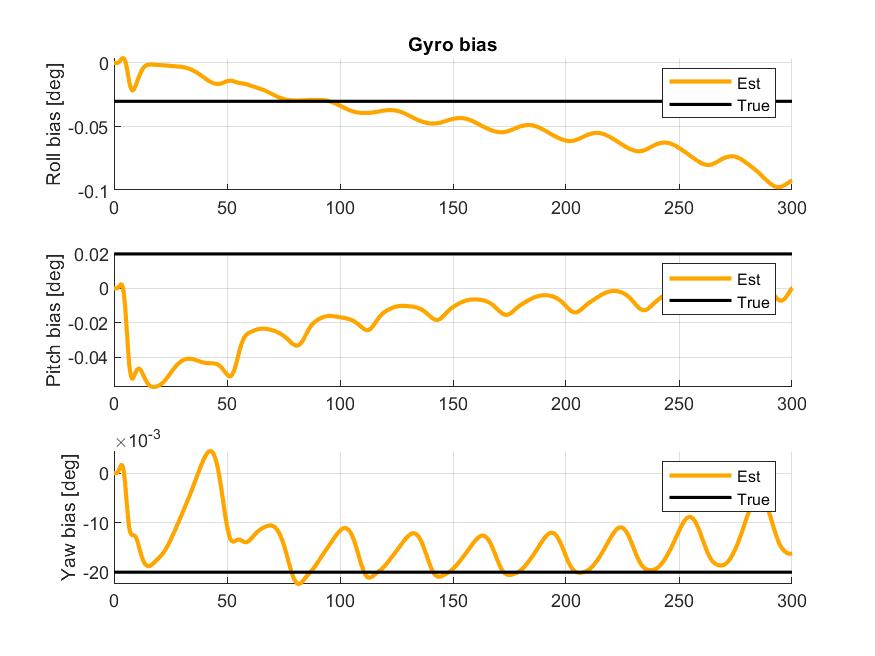
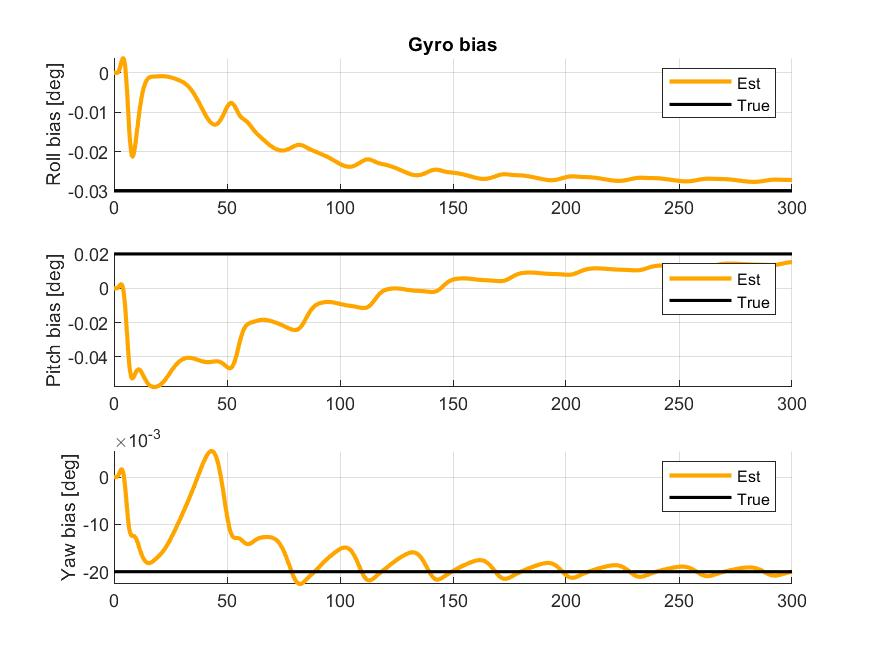
Corrected H-matrix, the errors now converge with only dual gnssgit add .

diff --git a/ESKF/ErrorStateKalman_sola.m b/ESKF/ErrorStateKalman_sola.m
@@ -50,32 +50,32 @@ function [delta_x, E] = ErrorStateKalman_sola(r_b_1, r_b_2,E_prev,delta_y, R_nb_
 %                  Z3    Z3        Z3                                   Z3       Z3    Z3    % dbars
 %                  Z3    Z3        Z3                                   Z3       Z3    Z3] ; % dg
             
-          A = [  Z3    I3        Z3                                           Z3       Z3   % dp
+          A = [  Z3    I3            Z3                                       Z3       Z3   % dp
                  Z3    Z3     -R_nb_hat    -R_nb_hat*Smtrx(f_b_imu - bacc_b_ins)       Z3   % dv
-                 Z3    Z3        Z3                                           Z3       Z3   % dbacc
-                 Z3    Z3        Z3             -Smtrx(omega_b_imu - bars_b_ins)      -I3   % dtheta ???????
-                 Z3    Z3        Z3                                           Z3       Z3];   % dbars
+                 Z3    Z3            Z3                                       Z3       Z3   % dbacc
+                 Z3    Z3            Z3         -Smtrx(omega_b_imu - bars_b_ins)      -I3   % dtheta ???????
+                 Z3    Z3            Z3                                       Z3       Z3];   % dbars
 %                  Z3    Z3        Z3                                           Z3       Z3]; % dg
              
             
  
-          E = [      Z3      Z3    Z3   Z3
-                  -R_nb_hat      Z3    Z3   Z3    % w_acc
-                     Z3      I3    Z3   Z3    % w_acc_bias
-                     Z3      Z3   -I3   Z3    % w_ars
-                     Z3      Z3    Z3   I3];    % w_ars_bias
+          E = [        Z3      Z3    Z3   Z3
+                -R_nb_hat      Z3    Z3   Z3    % w_acc
+                       Z3      I3    Z3   Z3    % w_acc_bias
+                       Z3      Z3   -I3   Z3    % w_ars
+                       Z3      Z3    Z3   I3];    % w_ars_bias
 %                      Z3      Z3    Z3   Z3 ]; 
 
           
-          H = [ I3 Z3 Z3 Z3 Z3 Z3
-                I3 Z3 Z3 I3 Z3 Z3];
+%           H = [ I3 Z3 Z3 Z3 Z3 Z3
+%                 I3 Z3 Z3 I3 Z3 Z3];
             
-          H = [ I3 Z3 Z3 -Smtrx(R_nb_hat*r_b_1) Z3
-                I3 Z3 Z3 -Smtrx(R_nb_hat*r_b_2) Z3];
+          H = [ I3 Z3 Z3 -R_nb_hat*Smtrx(r_b_1) Z3
+                I3 Z3 Z3 -R_nb_hat*Smtrx(r_b_2) Z3];
 %                 Z3 Z3 Z3                     I3 Z3];
                
-         M = rref(obsv(A,H))  
-         rank(obsv(A,H));
+%          M = rref(obsv(A,H))  
+         rank(obsv(A,H))
 
           
           % Discrete-time model

diff --git a/ESKF/MESKF_sola.m b/ESKF/MESKF_sola.m
@@ -149,6 +149,8 @@ for k = 1:N
         h_low = 1/10;
         q_delta_omega = qbuild(delta_x(10:12)/h_low, h_low);
         x_ins(10:13) = quatprod(x_ins(10:13), q_delta_omega);
+%         delta_q = [1 ; 0.5*delta_x(10:12)];
+%         x_ins(10:13) = quatprod(x_ins(10:13), delta_q);
         x_ins(10:13) = x_ins(10:13)/norm(x_ins(10:13)); 
    end
     
